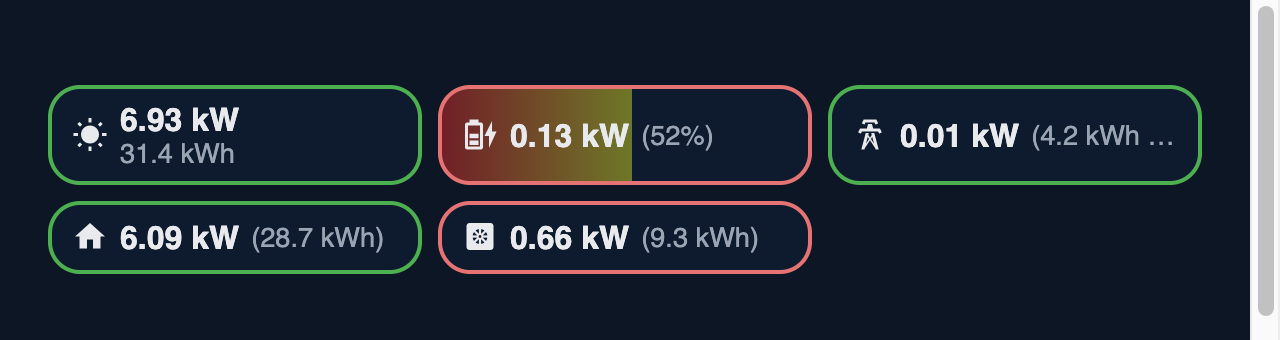
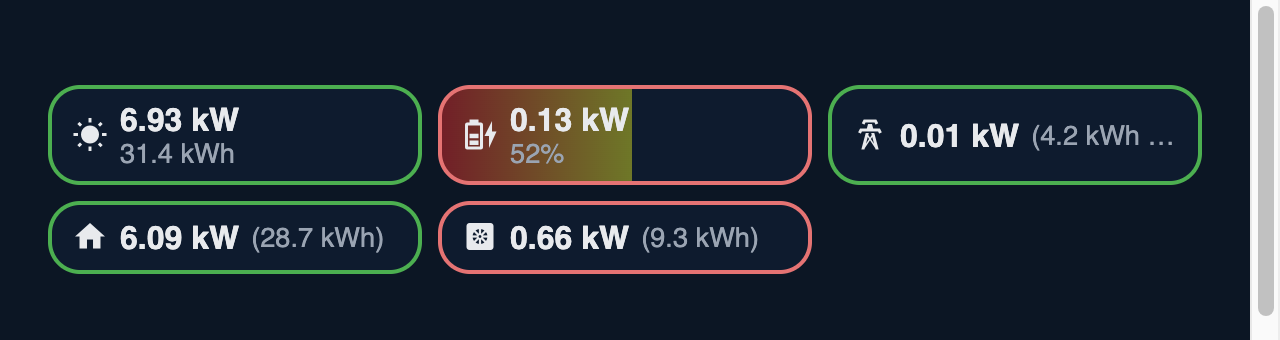
daily_line moves all bracket values (SoC, daily, price) to a second line

Changed region(s): [[0.375, 0.2941, 0.5625, 0.5]]

diff --git a/slim-energy-card.js b/slim-energy-card.js
@@ -104,18 +104,15 @@ class SlimEnergyCard extends HTMLElement {
       if (!isNaN(soc)) parts.push(`${Math.round(soc)}%`);
     }
     const [d, du] = this._sum([c.daily_entity, c.daily_entity_2], true);
-    let line2 = "";
-    if (!isNaN(d)) {
-      const t = `${d.toFixed(1)} ${du || "kWh"}`;
-      if (c.daily_line) line2 = `<span class="x">${t}</span>`;
-      else parts.push(t);
-    }
+    if (!isNaN(d)) parts.push(`${d.toFixed(1)} ${du || "kWh"}`);
     const price = c.price_entity || this._config.price_entity; // card-level kept for old configs
     if (c.type === "grid" && price) {
       const [p, ps] = this._num(price);
       if (!isNaN(p)) parts.push(`${p.toFixed(2)} ${ps.attributes.unit_of_measurement || ""}`.trim());
     }
-    const extra = parts.length ? `(${parts.join(" · ")})` : "";
+    const text = parts.join(" · ");
+    const extra = text && !c.daily_line ? `(${text})` : "";
+    const line2 = text && c.daily_line ? `<span class="x">${text}</span>` : ""; // daily_line: all bracket parts on a second line
     const icon = c.icon || T.icon;
     let style = "";
     if (c.soc_fill && c.soc_entity) {
@@ -149,7 +146,7 @@ const sel = (options) => ({ select: { options, mode: "dropdown" } });
 const TYPE_OPTIONS = Object.entries(TYPES).map(([value, t]) => ({ value, label: t.label }));
 const LABELS = {
   enabled: "Show", type: "Type", name: "Name", entity: "Power entity", icon: "Icon",
-  entity_2: "Second power entity (optional, added)", daily_entity_2: "Second daily energy entity (optional, added)", soc_entity: "Battery SoC entity", soc_fill: "Fill pill by state of charge", daily_entity: "Daily energy entity", daily_line: "Daily energy on second line",
+  entity_2: "Second power entity (optional, added)", daily_entity_2: "Second daily energy entity (optional, added)", soc_entity: "Battery SoC entity", soc_fill: "Fill pill by state of charge", daily_entity: "Daily energy entity", daily_line: "Details on second line",
   positive_color: "Border colour when value > 0", invert: "Invert sign", price_entity: "Price entity",
 };
 const bool = { boolean: {} };

diff --git a/preview.html b/preview.html
@@ -75,7 +75,7 @@
   const config = {
     entities: [
       { entity: "sensor.solar", type: "solar", entity_2: "sensor.solar2", daily_entity: "sensor.solar_day", daily_entity_2: "sensor.solar2_day", daily_line: true },
-      { entity: "sensor.bat", type: "battery", soc_entity: "sensor.soc", soc_fill: true },
+      { entity: "sensor.bat", type: "battery", soc_entity: "sensor.soc", soc_fill: true, daily_line: true },
       { entity: "sensor.grid", type: "grid", price_entity: "sensor.price", daily_entity: "sensor.grid_day" },
       { entity: "sensor.house", type: "home", name: "House", daily_entity: "sensor.house_day" },
       { entity: "sensor.heat", type: "heatpump", daily_entity: "sensor.heat_day" },

diff --git a/AGENTS.md b/AGENTS.md
@@ -16,7 +16,7 @@ HACS Lovelace card (`custom:slim-energy-card`). Goal: very simple, slim energy o
 - Bracket text, parts joined with ` · `, in order: battery SoC (`soc_entity`, `52%`), daily energy (`daily_entity`, kWh, Wh converted, 1 decimal), grid price (only `type: grid`, from its `price_entity`, 2 decimals + its unit).
   - Solar: `daily_entity` = daily production. Grid: `daily_entity` = daily use, e.g. `(4.2 kWh · 0.28 €/kWh)`.
 - Daily value without a unit (e.g. a meter on a unit-less source) is shown as kWh.
-- `daily_line: true`: daily energy goes on a second line (muted text under the value) instead of into the brackets; saves width.
+- `daily_line: true`: all bracket parts (SoC, daily, price, joined with ` · `) go on a second line, without brackets, instead of next to the value; saves width. Key name kept from when it only moved the daily value.
 - Battery `soc_fill: true` (needs `soc_entity`): pill background filled left to right to SoC%, gradient red to hsl(SoC*1.2) (red low, green high). Off by default.
 - Solar only: `entity_2` and `daily_entity_2` (second inverter) are summed with `entity` / `daily_entity` (`_sum`, W to kW, Wh to kWh; unavailable ones skipped). Tap opens more-info of `entity`.
 - Icon per entity: any `mdi:...` (via `ha-icon`) or emoji. Defaults per type are standard MDI icons (`TYPES`): sun `mdi:white-balance-sunny`, battery `mdi:battery-charging-medium`, grid `mdi:transmission-tower`, home `mdi:home`, heat pump `mdi:heat-pump`, EV `mdi:car-electric`, other `mdi:flash`. Chosen to match what the owner had configured by hand; no coloured/embedded icons (rejected). Editor icon picker shows the type default as placeholder.

diff --git a/README.md b/README.md
@@ -68,7 +68,7 @@ The border shows the direction of the energy, not whether it is "good":
 | `soc_entity` | | Battery only: state of charge, shown as `(52%)` |
 | `soc_fill` | `false` | Battery only: fill the pill from the left up to the state of charge, with a red to green gradient |
 | `daily_entity_2` | | Solar only: second daily energy sensor, added to `daily_entity` |
-| `daily_line` | `false` | Show the daily energy on a second line in the pill instead of in brackets |
+| `daily_line` | `false` | Show the bracket values (SoC, daily energy, price) on a second line in the pill instead of in brackets |
 | `price_entity` | | Grid only: price, shown in brackets |
 | `daily_entity` | | Daily energy sensor in kWh or Wh, shown in brackets |
 | `positive_color` | per type | Border colour when the value is above 0: `green` or `red`. Solar, home, other: green. Battery, grid, heat pump, EV: red. The opposite colour is used below 0. |
